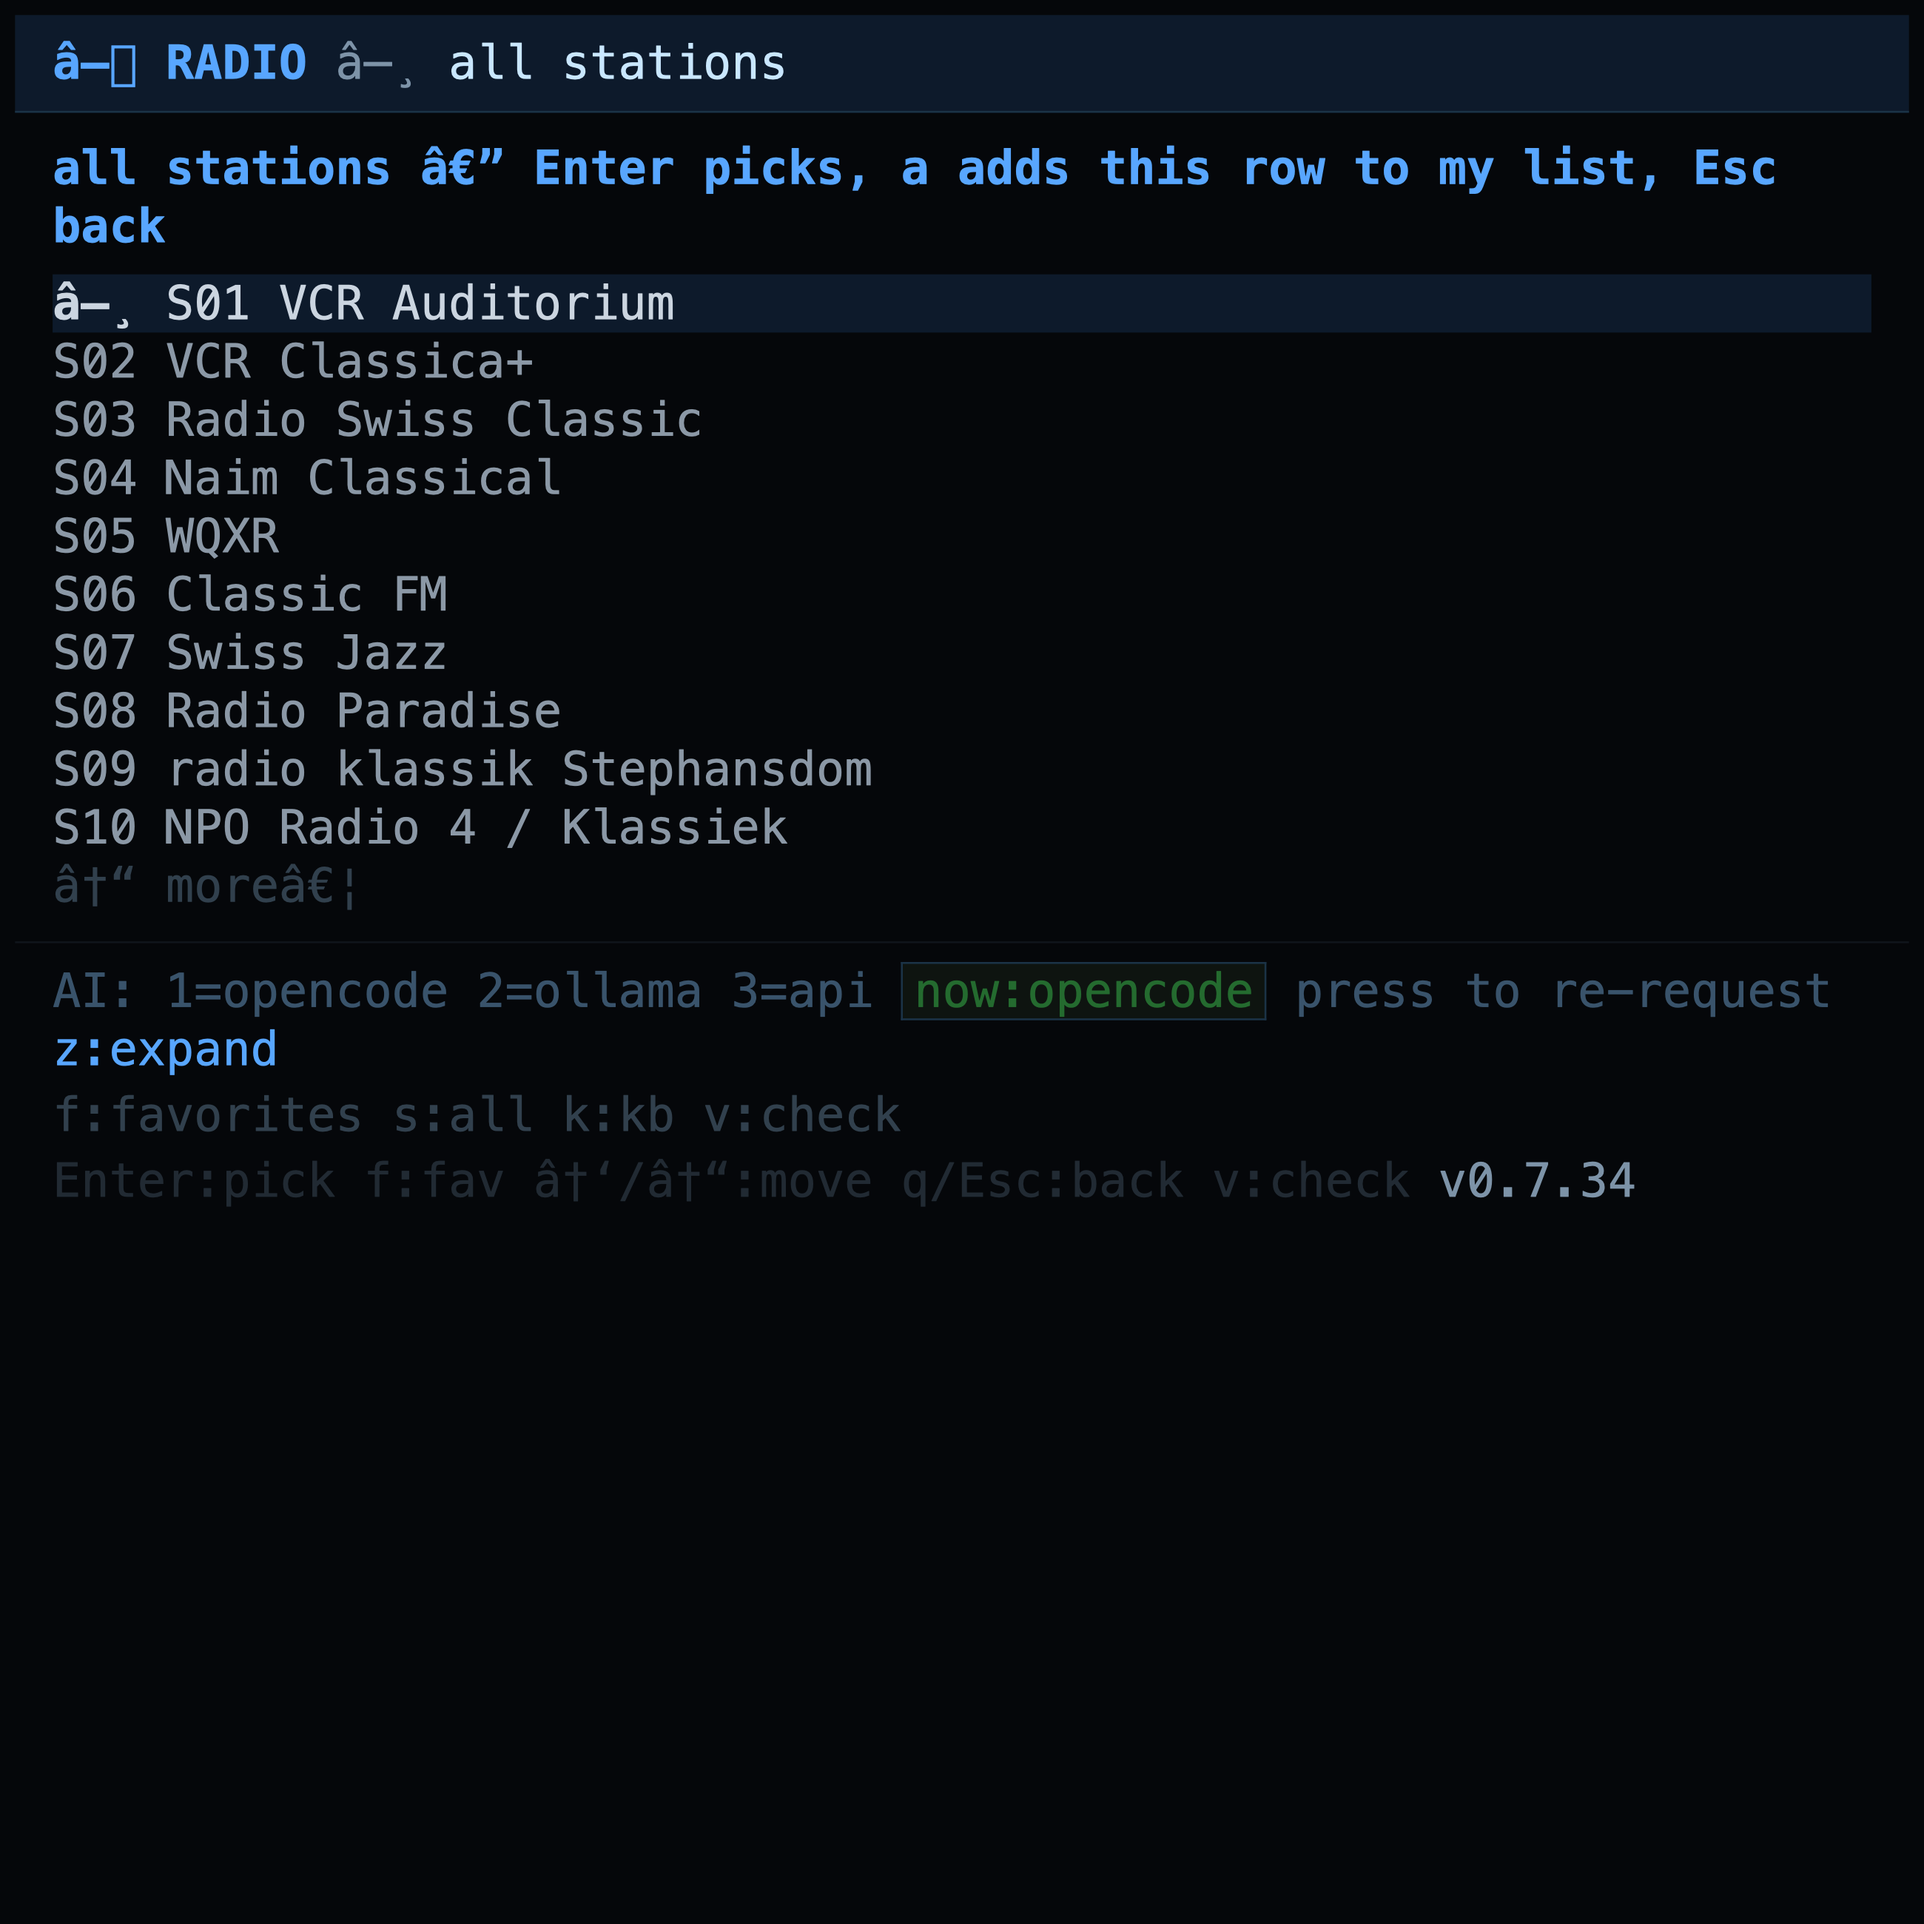
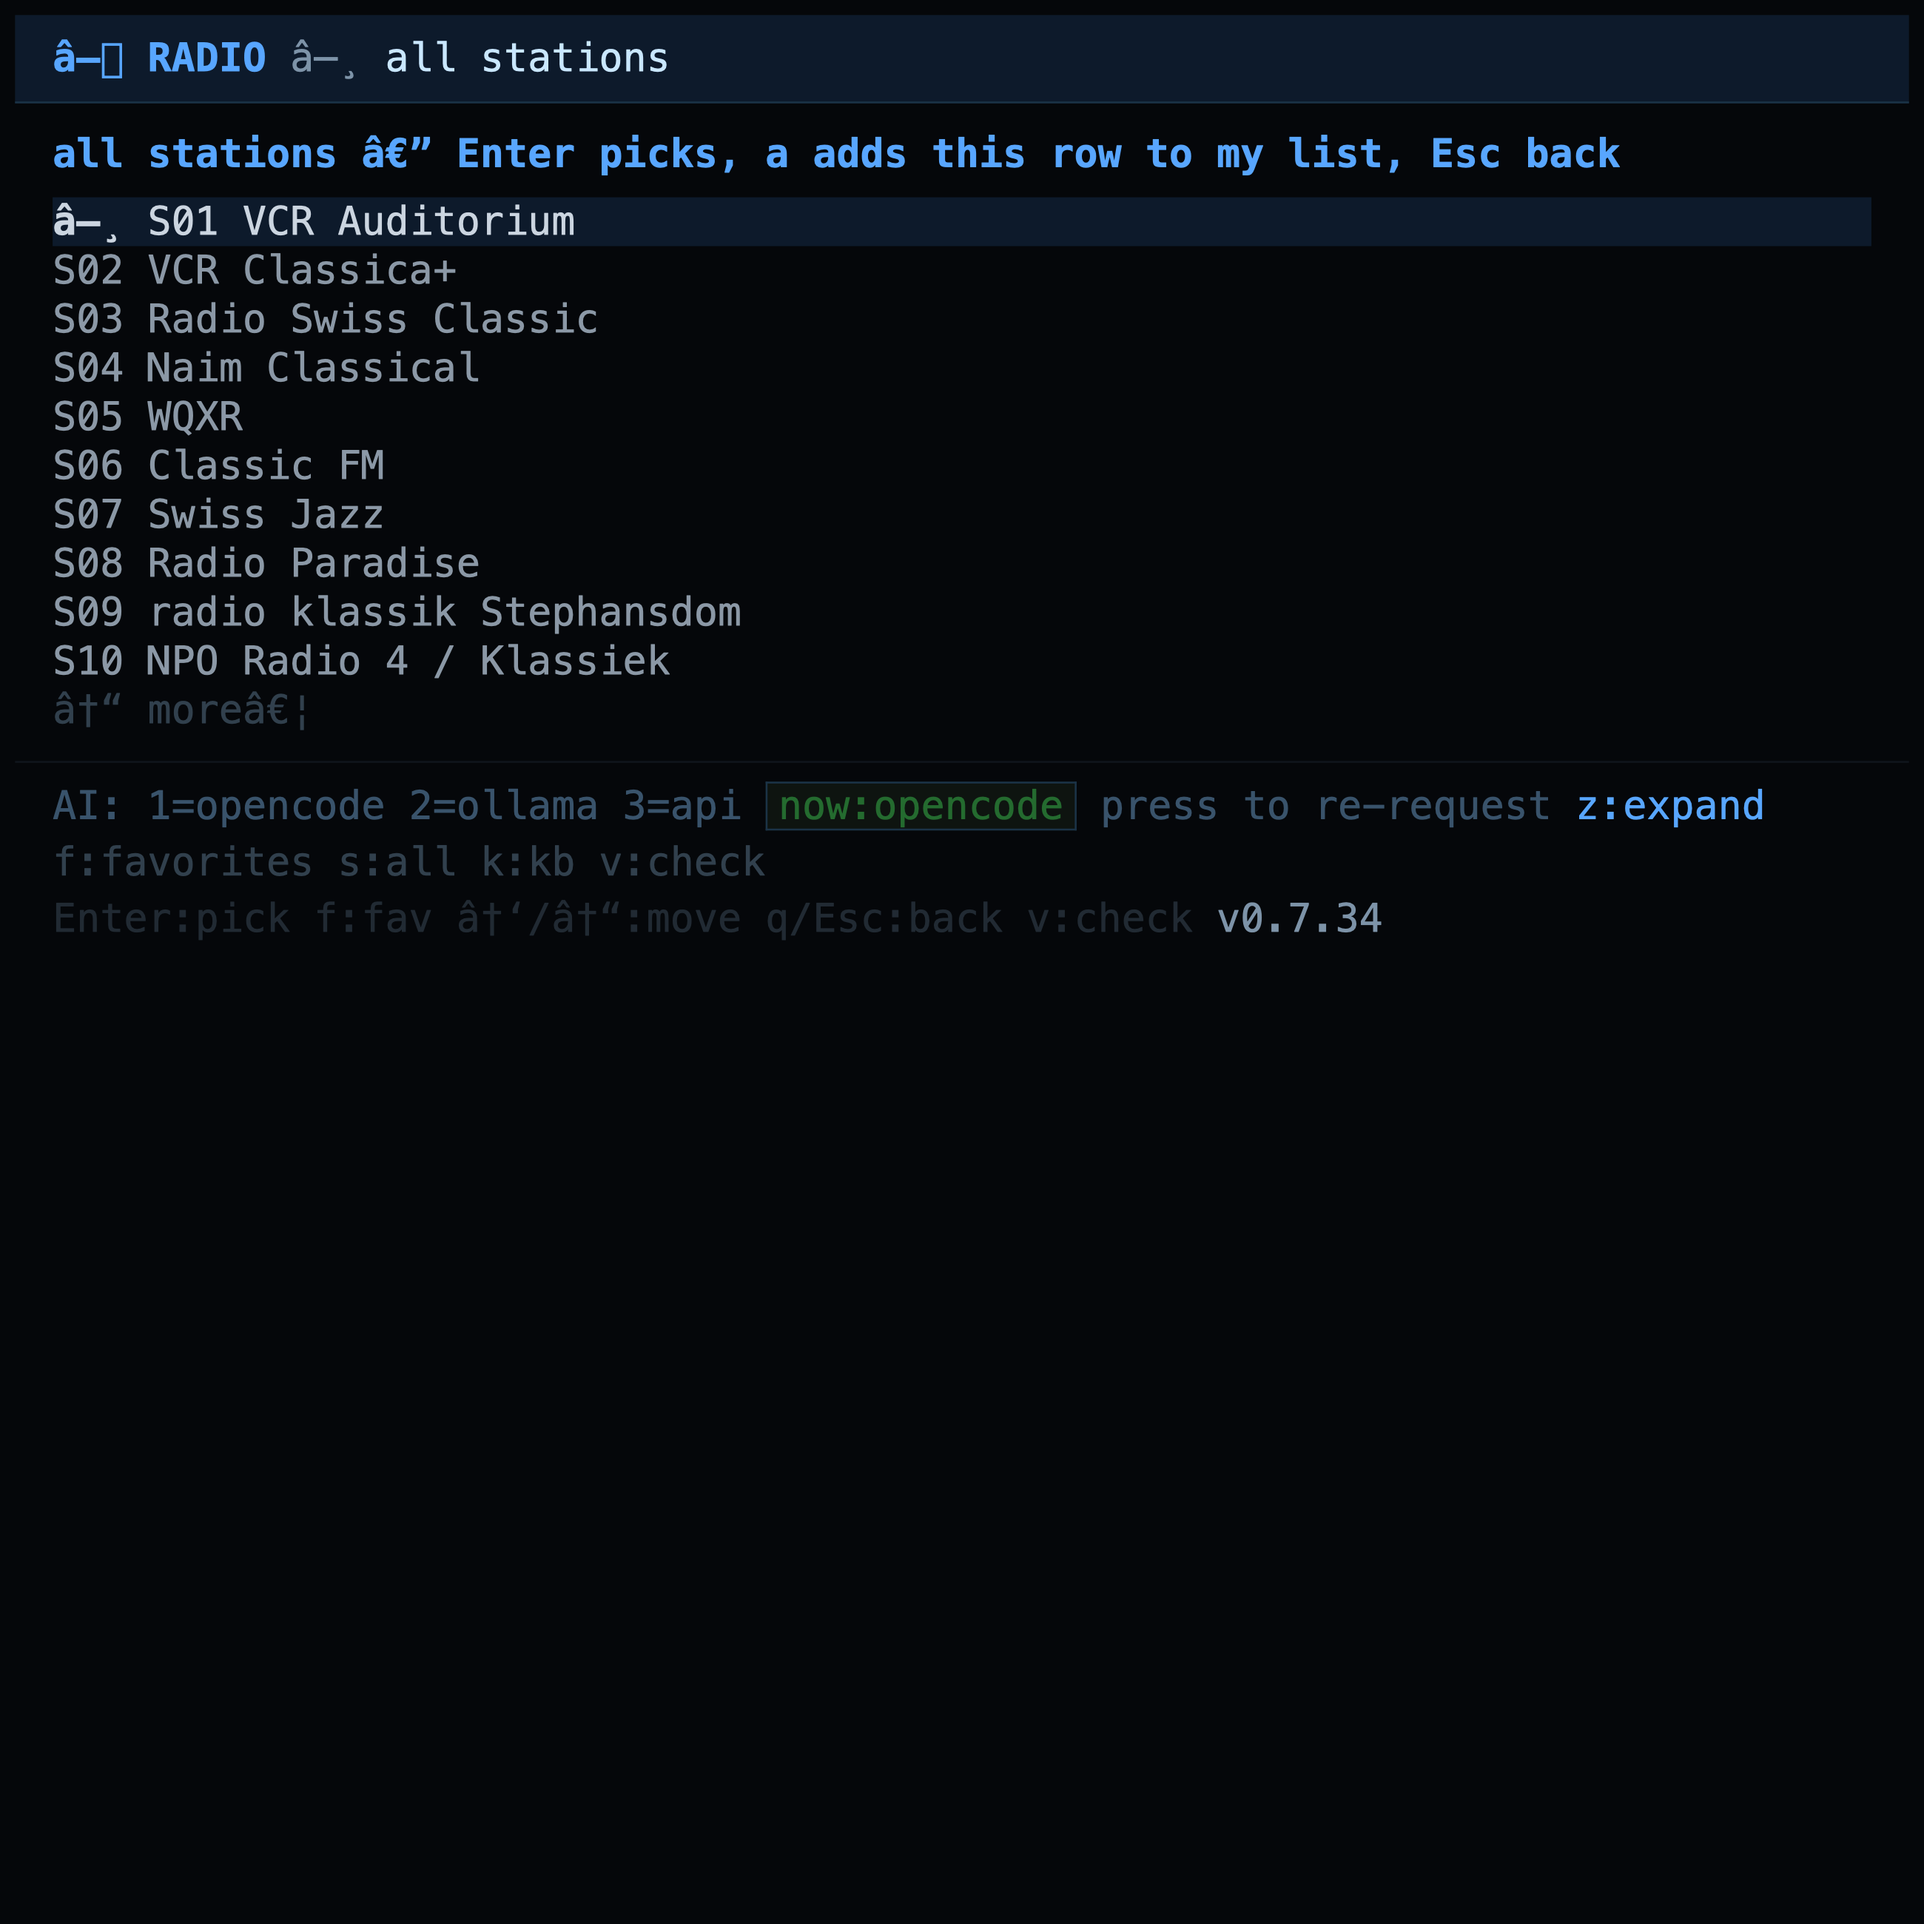
v0.7.35: marketing README + hardened screenshot rendering

diff --git a/screenshots/all-stations.html b/screenshots/all-stations.html
@@ -1,4 +1,4 @@
-<html><body style="background:#05070a;m0:0;font-family:'SF Mono',Menlo,monospace;font-size:25px;line-height:1.24">
+<html><body style="background:#05070a;m0:0;font-family:'Menlo','Apple Symbols',monospace;font-size:21px;line-height:1.24">
 <div style="color:#05070a;background:#0d1a2b;padding:10px 20px;border-bottom:1px solid #1b3347">
 <span style="color:#58a6ff;font-weight:bold">● RADIO</span><span style="color:#7d93a8"> ▸ </span><span style="color:#c9e7ff">all stations</span></div>
 <div style="padding:14px 20px;color:#c9d6e0">

diff --git a/screenshots/favorites.html b/screenshots/favorites.html
@@ -1,4 +1,4 @@
-<html><body style="background:#05070a;m0:0;font-family:'SF Mono',Menlo,monospace;font-size:25px;line-height:1.24">
+<html><body style="background:#05070a;m0:0;font-family:'Menlo','Apple Symbols',monospace;font-size:21px;line-height:1.24">
 <div style="color:#05070a;background:#0d1a2b;padding:10px 20px;border-bottom:1px solid #1b3347">
 <span style="color:#58a6ff;font-weight:bold">● RADIO</span><span style="color:#7d93a8"> ▸ </span><span style="color:#c9e7ff">favorites</span></div>
 <div style="padding:14px 20px;color:#c9d6e0">

diff --git a/screenshots/player.html b/screenshots/player.html
@@ -1,4 +1,4 @@
-<html><body style="background:#05070a;m0:0;font-family:'SF Mono',Menlo,monospace;font-size:26px;line-height:1.22">
+<html><body style="background:#05070a;m0:0;font-family:'Menlo','Apple Symbols',monospace;font-size:22px;line-height:1.26">
 <div style="color:#05070a;background:#0d1a2b;padding:12px 20px;border-bottom:1px solid #1b3347">
 <span style="color:#58a6ff;font-weight:bold">● RADIO</span>
 <span style="color:#7d93a8"> ▸ </span>

diff --git a/CHANGELOG.md b/CHANGELOG.md
@@ -5,7 +5,7 @@ All notable changes to this project are documented in this file.
 The format is based on [Keep a Changelog](https://keepachangelog.com/en/1.1.0/),
 and this project adheres to [Semantic Versioning](https://semver.org/spec/v2.0.0.html).
 
-## [Unreleased]
+## [0.7.35] - 2026-08-29
 
 ### Added
 
@@ -14,6 +14,13 @@ and this project adheres to [Semantic Versioning](https://semver.org/spec/v2.0.0
   `screenshots/favorites.png`, `screenshots/all-stations.png`), and a
   KB-link after every paragraph. The full details stay in KB.md. Screenshots
   are re-renderable via `make screens`.
+
+### Fixed
+
+- **Screenshot rendering** — mradio's Unicode glyphs (`● ▸ █ ░` and the
+  arrows/triangles) now render from a hardened font stack
+  (`Menlo, Apple Symbols`) instead of SF Mono, which lacks several of those
+  glyphs.
 
 ## [0.7.34] - 2026-08-29
 
